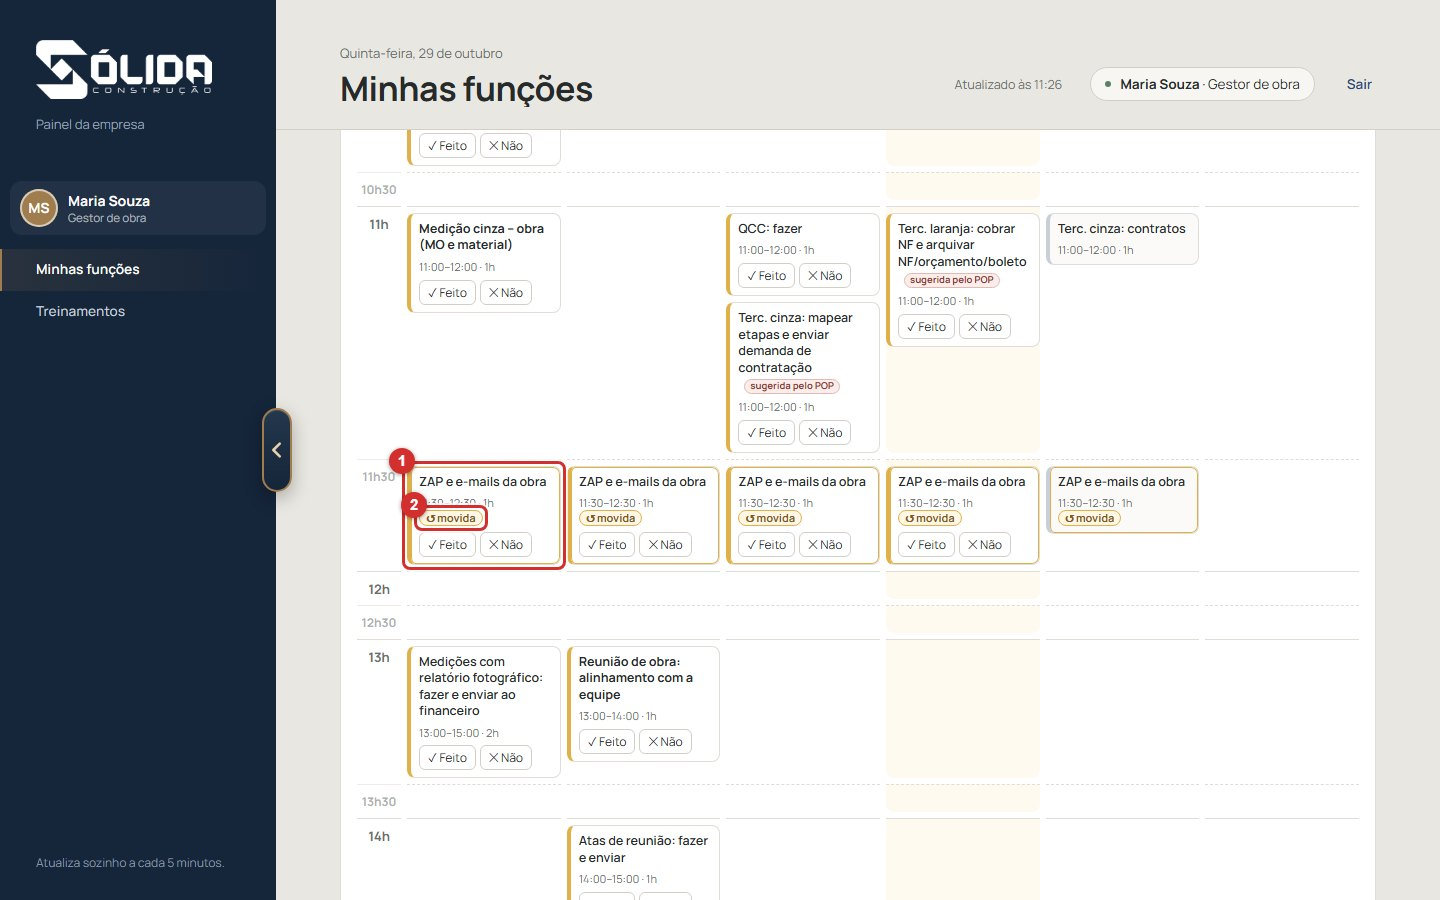
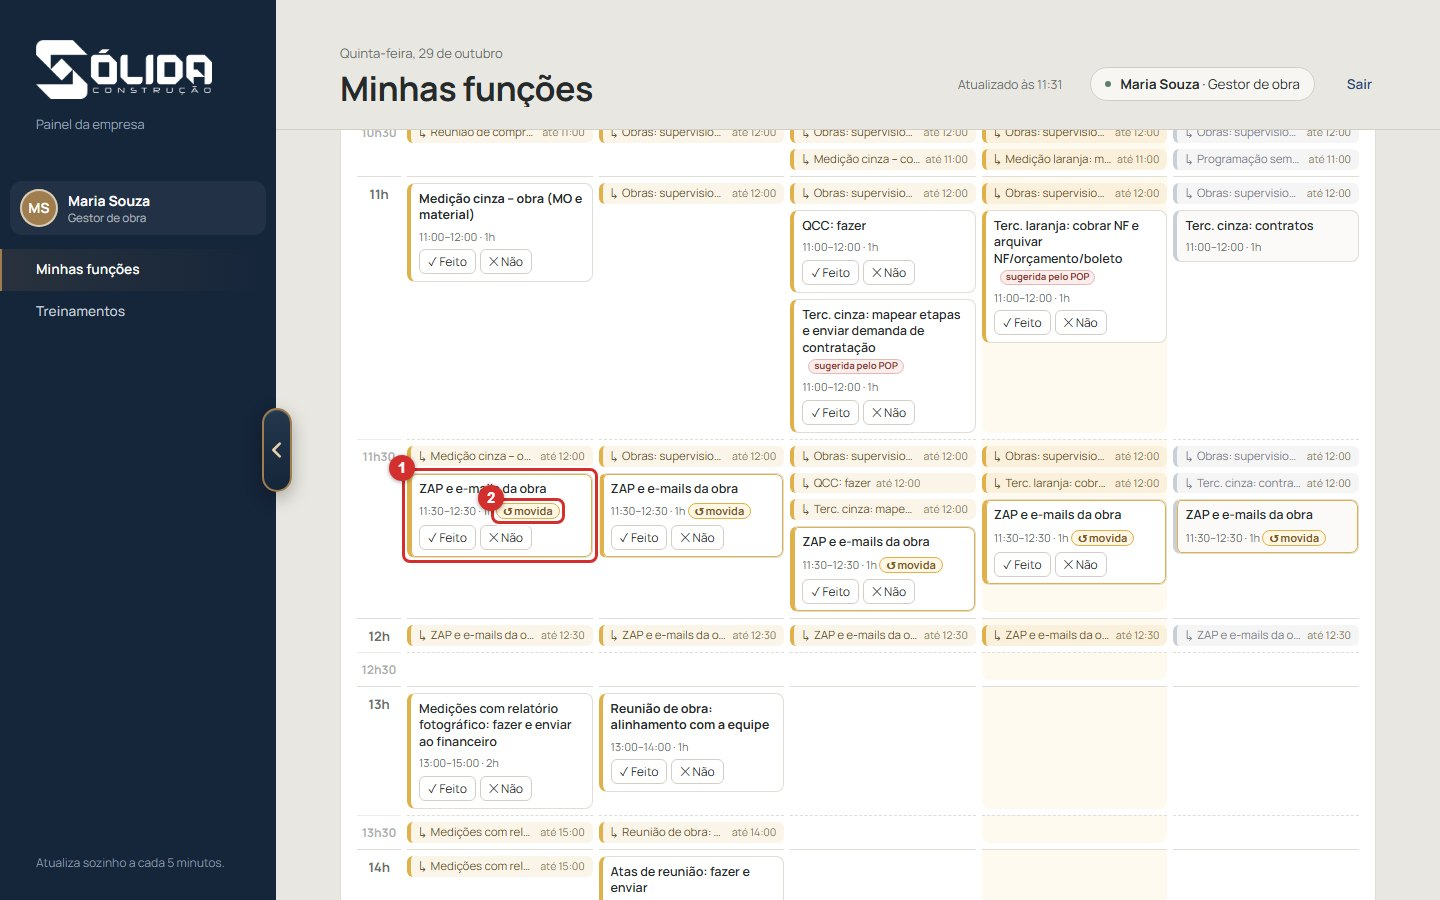
Minhas funcoes: tarefa aparece em todas as linhas de meia hora que ocupa; semana de segunda a sexta (sabado so se houver tarefa); prints atualizados

Changed region(s): [[0.25, 0.0933, 0.9375, 1.0]]

diff --git a/app/js/telas/meudia.js b/app/js/telas/meudia.js
@@ -171,7 +171,7 @@ function funcoesSemana(ref, CFG) {
 
   const nav = html`<div class="periodo">
     <button type="button" class="botao" data-semana-md="${somarDias(ini, -7)}">← Semana anterior</button>
-    <div class="atual"><span>Semana</span><b>${fmtData(ini).slice(0, 5)} a ${fmtData(somarDias(ini, 5)).slice(0, 5)}</b></div>
+    <div class="atual"><span>Semana</span><b>${fmtData(ini).slice(0, 5)} a ${fmtData(somarDias(ini, doDia(dias[5]).length ? 5 : 4)).slice(0, 5)}</b></div>
     ${hoje < ini || hoje > somarDias(ini, 6) ? html`<button type="button" class="botao" data-semana-md="${hoje}">Esta semana</button>` : ''}
     <button type="button" class="botao" data-semana-md="${somarDias(ini, 7)}">Próxima semana →</button>
   </div>`;
@@ -187,7 +187,8 @@ function funcoesSemana(ref, CFG) {
   }
   const todos = [];
   for (const d of dias) for (const t of doDia(d)) todos.push(efetivo(t, d, horarios, dias));
-  const colunas = dias.map((c) => { const l = lados(todos.filter((e) => e.dia === c)); return { c, l, fe: l.filter((e) => feita(e.t, e.d)).length }; });
+  // a semana é de segunda a sexta: o sábado só aparece se a pessoa tiver alguma tarefa nele
+  const colunas = dias.map((c) => { const l = lados(todos.filter((e) => e.dia === c)); return { c, l, fe: l.filter((e) => feita(e.t, e.d)).length }; }).filter(({ l }, i) => i < 5 || l.length);
   const altTotal = GRADE.faixas * GRADE.alt;
   const horas = Array.from({ length: GRADE.faixas / 2 }, (_, i) => html`<span style="top:${i * 2 * GRADE.alt}px">${GRADE.ini / 60 + i}h</span>`);
   const cabecas = colunas.map(({ c, l, fe }, i) => html`<div class="fq-cab ${c === hoje ? 'hoje' : ''}"><b>${DIA_CURTO[i]} ${c.slice(8, 10)}/${c.slice(5, 7)}</b><small>${feriado(c) ? 'feriado' : l.length ? (c > hoje ? `${l.length} previstas` : `${fe} de ${l.length}`) : 'sem tarefas'}</small></div>`);
@@ -196,7 +197,7 @@ function funcoesSemana(ref, CFG) {
   // Vista em lista (padrão, 21/10): um cartão por tarefa, com o texto inteiro e os botões ✓ Feito / ✕ Não feito na própria tarefa.
   // A vista "Por horário" (quadro com horas) continua disponível para quem quer arrastar e mudar horários.
   const dispo = (e) => `${hhmm(e.ini)}–${hhmm(e.ini + e.dur)} · ${durTxt(e.dur)}`;
-  const vistaLista = html`<div class="fl-lista">${colunas.map(({ c, l, fe }, i) => html`<div class="fl-col ${c === hoje ? 'hoje' : ''}">
+  const vistaLista = html`<div class="fl-lista" style="--nd:${colunas.length}">${colunas.map(({ c, l, fe }, i) => html`<div class="fl-col ${c === hoje ? 'hoje' : ''}">
       <div class="fq-cab ${c === hoje ? 'hoje' : ''}"><b>${DIA_CURTO[i]} ${c.slice(8, 10)}/${c.slice(5, 7)}</b><small>${feriado(c) ? 'feriado' : l.length ? (c > hoje ? `${l.length} previstas` : `${fe} de ${l.length} feitas`) : 'sem tarefas'}</small></div>
       ${[...l].sort((a, b) => a.ini - b.ini).map((e) => caixaTarefa(e.t, e.d, estadoDe(e.t, e.d), hoje, null, dispo(e)))}
     </div>`)}</div>`;
@@ -208,10 +209,10 @@ function funcoesSemana(ref, CFG) {
   const ini30 = Math.min(7 * 60, ...ms); const fim30 = Math.max(18 * 60 + 30, ...ms);
   const slots = Array.from({ length: (fim30 - ini30) / 30 + 1 }, (_, i) => ini30 + i * 30);
   const rotuloSlot = (s) => (s % 60 ? `${Math.floor(s / 60)}h30` : `${s / 60}h`);
-  const vistaHoras = html`<div class="fh-grade">
+  const vistaHoras = html`<div class="fh-grade" style="--nd:${colunas.length}">
     <div class="fh-canto"></div>
     ${colunas.map(({ c, l, fe }, i) => html`<div class="fq-cab fh-dia ${c === hoje ? 'hoje' : ''}"><b>${DIA_CURTO[i]} ${c.slice(8, 10)}/${c.slice(5, 7)}</b><small>${feriado(c) ? 'feriado' : l.length ? (c > hoje ? `${l.length} previstas` : `${fe} de ${l.length}`) : 'sem tarefas'}</small></div>`)}
-    ${slots.map((s) => html`<div class="fh-hora ${s % 60 ? 'fh-meia' : ''}"><b>${rotuloSlot(s)}</b></div>${colunas.map(({ c, l }) => html`<div class="fh-cel ${c === hoje ? 'hoje' : ''} ${s % 60 ? 'fh-cel-meia' : ''}" data-cel-dia="${c}" data-cel-min="${s}">${l.filter((e) => Math.floor(e.ini / 30) * 30 === s).sort((a, b) => a.ini - b.ini).map((e) => caixaTarefa(e.t, e.d, estadoDe(e.t, e.d), hoje, null, dispo(e), { mover: true, mudou: e.mudou, dur: e.dur, dataVista: e.dia }))}</div>`)}`)}
+    ${slots.map((s) => html`<div class="fh-hora ${s % 60 ? 'fh-meia' : ''}"><b>${rotuloSlot(s)}</b></div>${colunas.map(({ c, l }) => html`<div class="fh-cel ${c === hoje ? 'hoje' : ''} ${s % 60 ? 'fh-cel-meia' : ''}" data-cel-dia="${c}" data-cel-min="${s}">${l.filter((e) => e.ini < s && Math.floor(e.ini / 30) * 30 < s && e.ini + e.dur > s).map((e) => html`<div class="fh-cont fn-${situacao(e.t, e.d, estadoDe(e.t, e.d), hoje, null, true, e.dia).cls}" title="${e.t.texto} · ${hhmm(e.ini)}–${hhmm(e.ini + e.dur)}">↳ <span>${e.t.texto}</span> <small>até ${hhmm(e.ini + e.dur)}</small></div>`)}${l.filter((e) => Math.floor(e.ini / 30) * 30 === s).sort((a, b) => a.ini - b.ini).map((e) => caixaTarefa(e.t, e.d, estadoDe(e.t, e.d), hoje, null, dispo(e), { mover: true, mudou: e.mudou, dur: e.dur, dataVista: e.dia }))}</div>`)}`)}
   </div>
   <p class="legenda-semana">Para mudar o horário ou o dia de uma tarefa, segure o cartão e arraste para outra linha da grade, no mesmo dia ou em outro dia da semana (cada linha é meia hora: 9h, 9h30, 10h…). Para mudar quanto tempo ela ocupa no dia, clique na tarefa. O que você ajustar vale para todas as semanas e é só seu. "↺ movida" volta ao quadro original.</p>`;
   const botoesVista = html`<div class="fl-vista" role="group" aria-label="Como ver as tarefas"><span class="pequeno">Ver:</span>

diff --git a/app/css/estilo.css b/app/css/estilo.css
@@ -1904,7 +1904,7 @@ button.at-prazo:hover { filter: brightness(.96); box-shadow: 0 0 0 2px rgba(45, 
 .leitura-velha { background: rgba(217,83,79,.10); border-color: #D9534F; color: #A02E2A; }
 
 /* ---- Minhas funções: vista em lista por dia (texto inteiro; os 6 dias sempre cabem na tela, sem rolar para o lado) ---- */
-.fl-lista { display: grid; grid-template-columns: repeat(6, minmax(0, 1fr)); gap: 8px; align-items: start; }
+.fl-lista { display: grid; grid-template-columns: repeat(var(--nd, 5), minmax(0, 1fr)); gap: 8px; align-items: start; }
 .fl-col { display: flex; flex-direction: column; gap: 6px; min-width: 0; }
 .fl-col .fq-cab { padding: 6px 8px; }
 .fl-col .fq-cab b { font-size: 13px; }
@@ -1920,7 +1920,7 @@ button.at-prazo:hover { filter: brightness(.96); box-shadow: 0 0 0 2px rgba(45, 
 @media (max-width: 560px) { .fl-lista { grid-template-columns: minmax(0, 1fr); } }
 
 /* ---- Minhas funções: grade por hora (horas na lateral; tarefas do mesmo horário empilhadas, texto inteiro) ---- */
-.fh-grade { display: grid; grid-template-columns: 44px repeat(6, minmax(0, 1fr)); gap: 6px; align-items: stretch; }
+.fh-grade { display: grid; grid-template-columns: 44px repeat(var(--nd, 5), minmax(0, 1fr)); gap: 6px; align-items: stretch; }
 .fh-canto { }
 .fh-dia { padding: 6px 8px; }
 .fh-dia b { font-size: 13px; }
@@ -1954,7 +1954,7 @@ nav { position: relative; transition: width .18s ease; }
 @media (min-width: 761px) {
   body.nav-recolhido .conteudo { padding-left: 32px; padding-right: 32px; }
   body.nav-recolhido header.topo { padding-left: 32px; padding-right: 32px; }
-  body.nav-recolhido .fh-grade { grid-template-columns: 52px repeat(6, minmax(0, 1fr)); gap: 9px; }
+  body.nav-recolhido .fh-grade { grid-template-columns: 52px repeat(var(--nd, 5), minmax(0, 1fr)); gap: 9px; }
   body.nav-recolhido .fh-dia b { font-size: 15px; }
   body.nav-recolhido .fh-dia small { font-size: 12.5px; }
   body.nav-recolhido .fh-hora { font-size: 15px; }
@@ -2127,3 +2127,12 @@ body.sem-login .nav-handle { display: none; }
 .fh-cel { min-height: 28px; }
 .fh-hora.fh-meia { opacity: .55; font-size: 12px; }
 .fh-cel-meia { border-top-style: dashed; }
+
+/* a tarefa também aparece nas linhas de meia hora que ela ocupa (ex.: 8h às 9h aparece em 8h e em 8h30) */
+.fh-cont { display: flex; align-items: baseline; gap: 5px; padding: 3px 8px; border-left: 4px solid #E0B04A; border-radius: 6px; background: rgba(224, 176, 74, .12); font-size: 11.5px; line-height: 1.3; color: #6A5326; min-width: 0; }
+.fh-cont span { flex: 0 1 auto; overflow: hidden; text-overflow: ellipsis; white-space: nowrap; min-width: 0; }
+.fh-cont small { flex: none; color: #8A7A55; font-size: 10.5px; }
+.fh-cont.fn-ok { border-left-color: #4E8A62; background: rgba(78, 138, 98, .12); color: #2F6B43; }
+.fh-cont.fn-nao { border-left-color: #D9534F; background: rgba(217, 83, 79, .10); color: #9B3A33; }
+.fh-cont.fn-futuro { border-left-color: #C9CFD6; background: rgba(0, 0, 0, .04); color: #7A828C; }
+body.nav-recolhido .fh-cont { font-size: 12.5px; }
